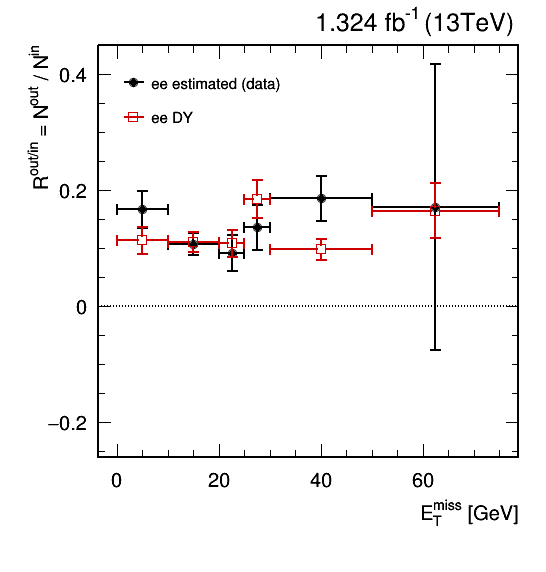
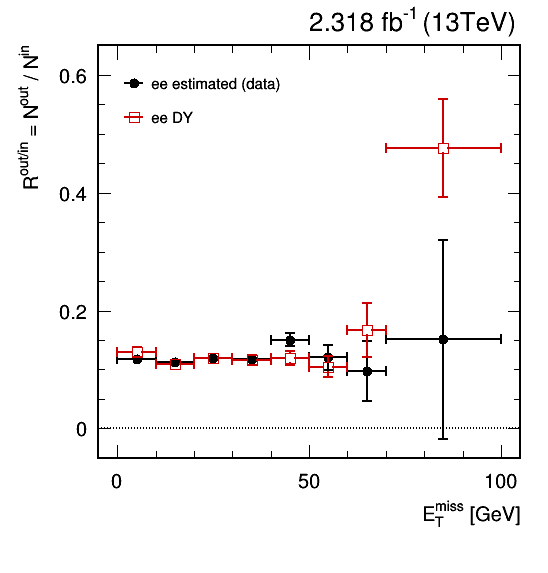
Minor changes

diff --git a/datadriven/getDYScale.C b/datadriven/getDYScale.C
@@ -25,10 +25,10 @@ const TString lchannel[nchannel] = {
 const float   zmin =  76;  // [GeV]
 const float   zmax = 106;  // [GeV]
 
-const int     nmetcut = 7;
+const int     nmetcut = 9;
 
-const float   metcut [nmetcut] = {-1, 10, 20, 25, 30, 50, -1};  // [GeV]
-const float   metdraw[nmetcut] = { 0, 10, 20, 25, 30, 50, 75};  // [GeV]
+const float   metcut [nmetcut] = {-1, 10, 20, 30, 40, 50, 60, 70,  -1};  // [GeV]
+const float   metdraw[nmetcut] = { 0, 10, 20, 30, 40, 50, 60, 70, 100};  // [GeV]
 
 const bool    includeVZ    = true;
 const bool    printResults = true;
@@ -109,15 +109,20 @@ int          bin_metmax;
 //    (1) k_ee  = 0.5 * sqrt(n_ee / n_mm);
 //    (2) scale = (n_in_ee - n_in_wz - n_in_zz - k_ee * n_in_em) / n_in_dy;
 //
-// Results for MET > 45 GeV and 2.318 fb-1,
+// Results for 2.318 fb-1 and MET > 45 GeV
 //
-//    ee SF(est/DY)  1.281 +- 0.149
-//    mm SF(est/DY)  1.436 +- 0.122
+//    SF(ee,est/DY)  1.344 +- 0.047
+//    SF(mm,est/DY)  1.405 +- 0.036
+//
+// Results for 2.318 fb-1, MET > 45 GeV and nbjet20cmvav2l > 0
+//
+//    SF(ee,est/DY)  1.351 +- 0.086
+//    SF(mm,est/DY)  1.379 +- 0.061
 //
 //~~~~~~~~~~~~~~~~~~~~~~~~~~~~~~~~~~~~~~~~~~~~~~~~~~~~~~~~~~~~~~~~~~~~~~~~~~~~~~
-void getDYScale(TString analysis = "TTDM",
+void getDYScale(TString analysis = "Control",
 		TString level    = "01_Routin",
-		double  lumi_fb  = 1.324)
+		double  lumi_fb  = 2.318)
 {
   gInterpreter->ExecuteMacro("../test/PaperStyle.C");
 
@@ -238,12 +243,12 @@ void getDYScale(TString analysis = "TTDM",
       line->Draw("same");
 
       mgraph[k]->GetXaxis()->SetTitleOffset(1.5);
-      mgraph[k]->GetYaxis()->SetTitleOffset(1.7);
+      mgraph[k]->GetYaxis()->SetTitleOffset(2.0);
       mgraph[k]->GetXaxis()->SetTitle("E_{T}^{miss} [GeV]");
       mgraph[k]->GetYaxis()->SetTitle("R^{out/in} = N^{out} / N^{in}");
 
-      mgraph[k]->SetMinimum(-0.26);
-      mgraph[k]->SetMaximum(+0.45);
+      mgraph[k]->SetMinimum(-0.05);
+      mgraph[k]->SetMaximum(+0.65);
 
       DrawLegend(0.22, 0.83, (TObject*)graph_R_data[k], " " + lchannel[k] + " estimated (data)");
       DrawLegend(0.22, 0.77, (TObject*)graph_R_dy  [k], " " + lchannel[k] + " DY");
@@ -276,7 +281,7 @@ void getDYScale(TString analysis = "TTDM",
   line->Draw("same");
 
   mgraph[2]->GetXaxis()->SetTitleOffset(1.5);
-  mgraph[2]->GetYaxis()->SetTitleOffset(1.7);
+  mgraph[2]->GetYaxis()->SetTitleOffset(2.0);
   mgraph[2]->GetXaxis()->SetTitle("E_{T}^{miss} [GeV]");
   mgraph[2]->GetYaxis()->SetTitle("scale factor = N^{in}_{est} / N^{in}_{DY}");
 
